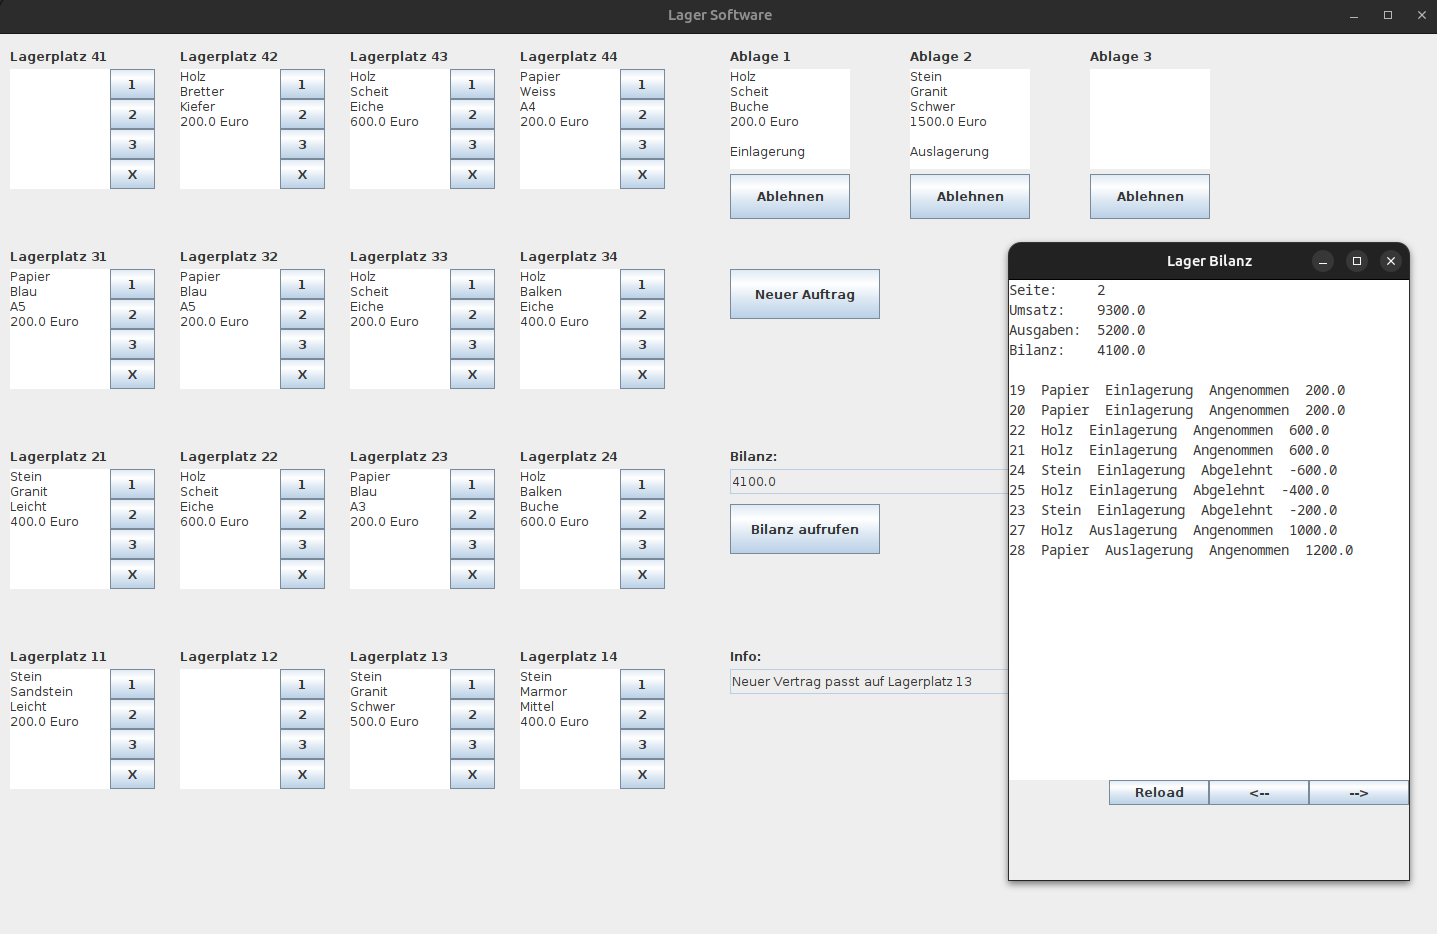
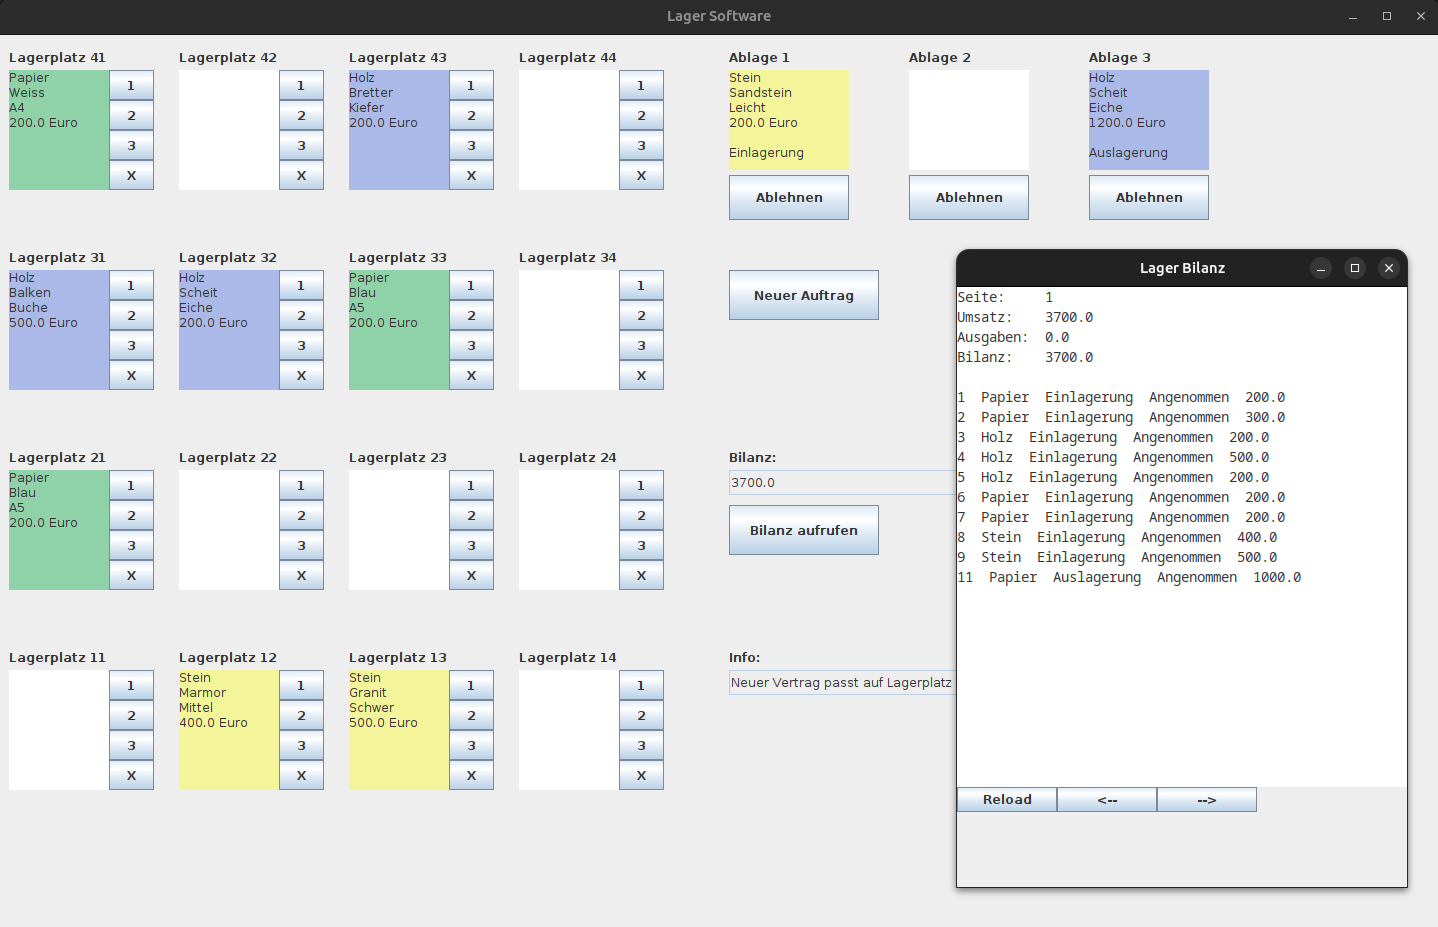
Colors!

diff --git a/src/gui/StorageUnit.java b/src/gui/StorageUnit.java
@@ -73,6 +73,7 @@ public class StorageUnit implements ActionListener{
 				unitArea.setText(null);
 				LagerGui.balanceList.scrappedStorage(p);
 				LagerGui.balanceField.setText( LagerGui.balanceList.getBalance() );
+				unitArea.setBackground(Helper.giveColor(-1));
 			} catch (Exception e1) {
 				LagerGui.errorField.setText( e1.getMessage() );
 			}
@@ -91,8 +92,10 @@ public class StorageUnit implements ActionListener{
 						LagerGui.balanceList.insert(p);
 						unitArea.setText(p.lessInfo());
 						LagerGui.contractUnit[contractNr].setText(null);
+						LagerGui.contractUnit[contractNr].setBackground(Helper.giveColor(-1));
 						LagerGui.orderList.delete(contractNr);
 						LagerGui.balanceField.setText( LagerGui.balanceList.getBalance() );
+						unitArea.setBackground(Helper.giveColor(p.getMaterial()));
 					}
 					// Auslagerung passt auf Lagerware
 					else {
@@ -100,8 +103,10 @@ public class StorageUnit implements ActionListener{
 						unitArea.setText(null);
 						LagerGui.shelf.destroy(x, y);
 						LagerGui.contractUnit[contractNr].setText(null);
+						LagerGui.contractUnit[contractNr].setBackground(Helper.giveColor(-1));
 						LagerGui.orderList.delete(contractNr);
 						LagerGui.balanceField.setText( LagerGui.balanceList.getBalance() );
+						unitArea.setBackground(Helper.giveColor(-1));
 					}
 				}
 				catch (Exception e1) {

diff --git a/src/product/Helper.java b/src/product/Helper.java
@@ -5,6 +5,14 @@ import java.awt.Color;
 public class Helper {
 
 	public static int i;
+	//{ new Color(244, 245, 155), new Color(170, 185, 231), new Color(144, 210, 168)}; //sw, gelb, blau, gn
+	
+	static Color white = new Color(255, 255, 255);
+	static Color yellow = new Color(244, 245, 155);
+	static Color blue = new Color(170, 185, 231);
+	static Color green = new Color(144, 210, 168);
+	static Color[] colors = {white, yellow, blue, green};
+	
 	
 	// Einlagerung
 	// String to Boolean
@@ -15,7 +23,7 @@ public class Helper {
 			return false;
 		}
 	}
-
+	
 	// Boolean to String
 	public static String inOrOut(boolean b) {
 		if ( b ) {
@@ -57,12 +65,13 @@ public class Helper {
 	}
 
 	// Give Font type (not implemented)
-	public static Color giveFont(int i) {
+	public static Color giveColor(int i) {
 		switch (i) {
-		case 0: return Color.GREEN;
-		case 1: return Color.BLUE;
-		case 2: return Color.RED;
-		default: return Color.BLACK;
+		case -1: return colors[0];
+		case 0: return colors[1];
+		case 1: return colors[2];
+		case 2: return colors[3];
+		default: return colors[0];
 		}
 	}
 	

diff --git a/src/gui/ContractUnit.java b/src/gui/ContractUnit.java
@@ -1,5 +1,6 @@
 package gui;
 
+import java.awt.Color;
 import java.awt.event.ActionEvent;
 import java.awt.event.ActionListener;
 
@@ -8,6 +9,7 @@ import javax.swing.JFrame;
 import javax.swing.JLabel;
 import javax.swing.JTextArea;
 
+import product.Helper;
 import product.Product;
 
 public class ContractUnit implements ActionListener{
@@ -57,13 +59,18 @@ public class ContractUnit implements ActionListener{
 			LagerGui.balanceList.rejectContract(p);
 			LagerGui.contractUnit[x].setText(null);
 			LagerGui.balanceField.setText( LagerGui.balanceList.getBalance() );
+			contractArea.setBackground(Helper.giveColor(-1));
 		} catch (Exception e1) {
 			LagerGui.errorField.setText(e1.getMessage());
 		}
+	}
+
+	public void setBackground(Color c) {
+		contractArea.setBackground(c);
 	}
 	
 	public void setText(String s) {
 		contractArea.setText(null);
 		contractArea.setText(s);
-	}	
+	}
 }

diff --git a/src/gui/LagerGui.java b/src/gui/LagerGui.java
@@ -1,7 +1,6 @@
 package gui;
 
 
-import java.awt.Font;
 import java.awt.event.ActionEvent;
 import java.awt.event.ActionListener;
 
@@ -24,7 +23,6 @@ public class LagerGui implements ActionListener {
 	public static Orders orders = new Orders();
 	public static Storage shelf = new Storage();
 	public static BalanceList balanceList = new BalanceList();
-	public static Font font;
 	
 	JFrame frame;
 	
@@ -123,10 +121,11 @@ public class LagerGui implements ActionListener {
 					int nr = orderList.accept(p);
 					
 					contractUnit[nr].setText(p.info());
+					
+					// Change color depending on product type
+					contractUnit[nr].setBackground( Helper.giveColor(p.getMaterial()) );
 
 					// Check for matching in shelf only
-					// Kleine Hilfe weil ich ohne Farben 
-					// und Bilder gearbeitet habe.
 					errorField.setText(shelf.findMatch(p));
 					
 				} catch (Exception ex) {
